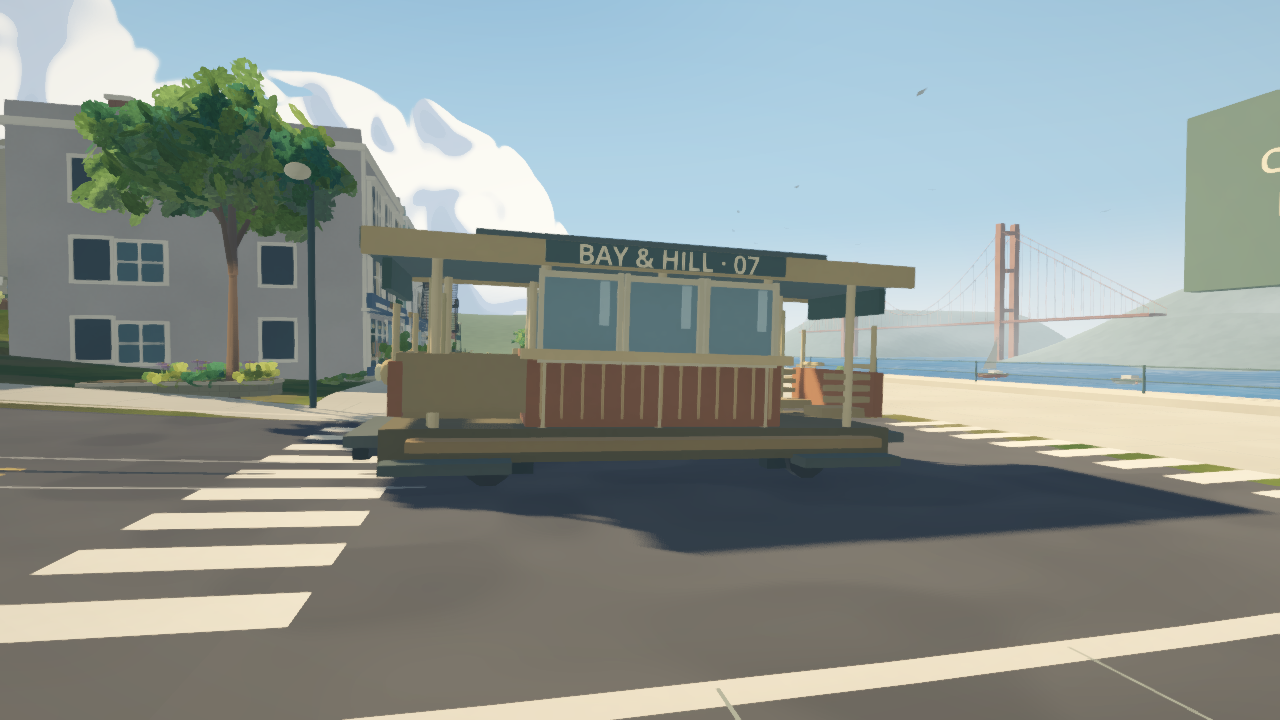
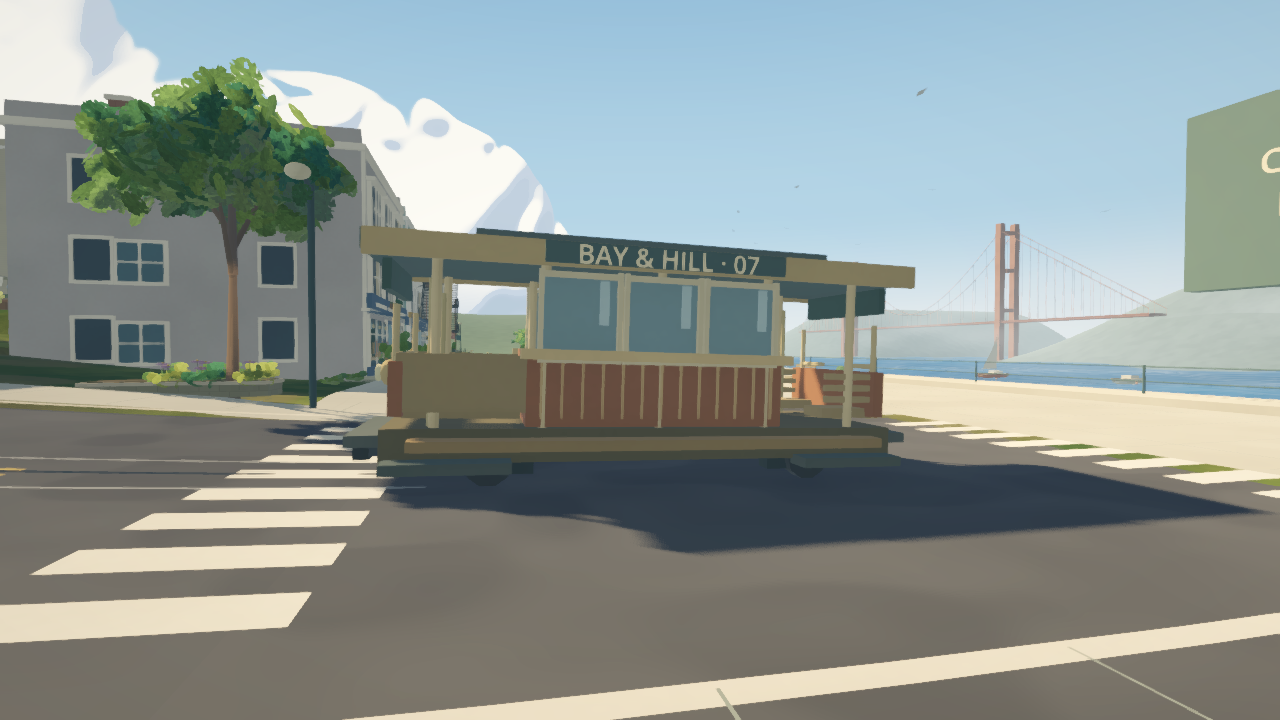
Align procedural sky and water with each map sun

diff --git a/games/cozysora/shared/CozyAtmosphere.cs b/games/cozysora/shared/CozyAtmosphere.cs
@@ -29,12 +29,18 @@ public partial class CozyAtmosphere : Resource
     [Export] public CozyWaterProfile? WaterProfile { get; set; }
     [Export] public float BrushRadius { get; set; } = 2;
 
+    // Directional lights emit along -Z; sky and water need the direction toward
+    // the sun. Read the installed light after its authored transform is applied.
+    internal static Vector3 DirectionToSun(Node3D parent) =>
+        parent.GetNode<DirectionalLight3D>("SummerSun").GlobalBasis.Z.Normalized();
+
     public void Install(Node3D parent)
     {
+        var skyMaterial = new ShaderMaterial { Shader = GD.Load<Shader>("res://shaders/sky.gdshader") };
         var env = new Environment
         {
             BackgroundMode = Environment.BGMode.Sky,
-            Sky = new Sky { SkyMaterial = new ShaderMaterial { Shader = GD.Load<Shader>("res://shaders/sky.gdshader") } },
+            Sky = new Sky { SkyMaterial = skyMaterial },
             AmbientLightSource = Environment.AmbientSource.Color,
             AmbientLightColor = AmbientColor,
             AmbientLightEnergy = AmbientEnergy,
@@ -71,6 +77,9 @@ public partial class CozyAtmosphere : Resource
         parent.AddChild(sun);
         if (AimSunAtOrigin) { sun.Position = SunPosition; sun.LookAt(Vector3.Zero); }
         else sun.RotationDegrees = SunRotationDegrees;
+        skyMaterial.SetShaderParameter("sun_direction", DirectionToSun(parent));
+        if (OS.GetCmdlineUserArgs().Contains("--profile"))
+            GD.Print("Cozy Sora SUN map=", parent.Name, " light_to_sun=", DirectionToSun(parent), " sky_to_sun=", skyMaterial.GetShaderParameter("sun_direction"));
         if (FillEnergy > 0)
         {
             var fill = new DirectionalLight3D { LightColor = FillColor, LightEnergy = FillEnergy };

diff --git a/games/cozysora/shared/water/CozyWaterSurface.cs b/games/cozysora/shared/water/CozyWaterSurface.cs
@@ -59,8 +59,9 @@ public partial class CozyWaterSurface : Node3D
         m.SetShaderParameter("shore_damping", profile.ShoreDampingDepth); m.SetShaderParameter("foam_strength", profile.FoamStrength);
         m.SetShaderParameter("wave_height_max", water._spectrum.MaximumHeight);
         m.SetShaderParameter("ocean_surface", ocean);
-        var sun = map.GetChildren().OfType<DirectionalLight3D>().FirstOrDefault(n => n.Name == "SummerSun");
-        m.SetShaderParameter("sun_direction", sun?.GlobalBasis.Z ?? new Vector3(-.55f, .7f, -.38f).Normalized());
+        m.SetShaderParameter("sun_direction", CozyAtmosphere.DirectionToSun(map));
+        if (OS.GetCmdlineUserArgs().Contains("--profile"))
+            GD.Print("Cozy Sora WATER_SUN map=", map.Name, " surface=", water.Name, " to_sun=", m.GetShaderParameter("sun_direction"));
         Mesh mesh;
         if (ocean)
         {

diff --git a/games/cozysora/VERIFICATION.md b/games/cozysora/VERIFICATION.md
@@ -202,3 +202,24 @@ Normal Daan play held a floating gull at XZ=(-20.622913,-13.604985), bobbing aro
 Evidence is under `/tmp/cozysora-harmony`: baseline copies, numbered refinement rounds, final native views, motion recordings and `native-play.log`. Reviewers independently inspected the signed distance transform, periodic noise, generated texture ownership, unchanged wave support and monotone fog tuning. Hardware controllers, genuine simultaneous multi-touch, non-Metal GPUs and exported builds remain outside this follow-up’s native scope.
 
 The final build completed with zero warnings/errors. All 14 final native captures exited successfully. A 75-second ordinary-gull descent crossed the 100–50 m altitude range and continued below it; independent review of spaced and adjacent samples found gradual haze changes without an opacity step. The final native UI cycle entered Harbor → Seabreeze → Daan, checked coastal floating/takeoff and paused cat recovery, and returned from each map with zero remaining sessions, players, cameras, audio players or orphan nodes. It exited with code 0 and no reported errors or leaks. Both independent reviewers accepted the final result within the documented native scope. The three destination previews were refreshed, imported successfully and checked in the native selector. Final-cycle, altitude and preview-import evidence is retained alongside the earlier captures.
+
+
+## Shared sun direction — 7 September 2026
+
+The sky’s formerly fixed Seabreeze sun direction is now supplied from each map’s installed `SummerSun`. The common helper reads normalized global +Z after the authored light transform and is used by both sky and water. The map’s directional light remains authoritative; sun transforms, colors, energy, cloud functions, water optics, layout and gameplay are unchanged. Each map retains a separate sky material, and directions are assigned during construction for the existing fixed-summer weather. No tests or external assets were added.
+
+The native `--profile` output reports the installed light direction and both material bindings. They agree to the displayed precision:
+
+| Map | Direction toward sun (world XYZ) |
+| --- | --- |
+| Seabreeze Village | (−0.568219, 0.723188, −0.392588) |
+| Harbor Hills | (−0.478459, 0.629320, 0.612399) |
+| Daan Gardens | (−0.391178, 0.731354, 0.558660) |
+
+Seabreeze’s ocean and both paddy surfaces receive its direction; Harbor’s ocean and Daan’s pond receive theirs. Matched normal and scenic captures cover coast, waterfront, flight, pond, deck and paddy views. Additional ordinary gull cameras face each map’s actual sun over water and upward into the sky. Baselines and final captures are under `/tmp/cozysora-sun`. Cloud animation can change phase between separate native runs; the shared cloud functions and thresholds were not edited.
+
+All 20 final native captures completed successfully: fourteen normal/scenic views and six matched sun-facing views. Independent visual review accepted the aligned sky sun and water highlights in Harbor and Daan, the retained Seabreeze alignment, and the preserved painterly clouds and water balance. Harbor and Daan destination previews were refreshed from these native captures, imported and viewed in the selector.
+
+The final native session entered Daan → Harbor → Seabreeze → Daan again. All four entries reported matching light, sky and water directions; Daan re-entry retained its original values after the coastal maps. Pond bobbing, takeoff, pause/resume and character switching were observed. Every return to selection reported zero remaining sessions, players, cameras, audio players and orphan nodes. The process exited with code 0 and no reported errors, exceptions or leak warnings. The independent runtime reviewer accepted the implementation and logs within this scope. The C# build completed with zero warnings/errors, and editor import exited successfully. Evidence includes `native-cycle.log`, `import.log`, the `final` capture directories and `daan-reentry.png`.
+
+Performance varied during concurrent rendering by other Godot applications: later Seabreeze play reported approximately 24–33 FPS and Daan re-entry approximately 36–40 FPS. This run does not establish a controlled performance comparison or a sustained-frame-rate guarantee. A stale native capture connection was refreshed before inspecting the final re-entry. GPU timing remained unavailable; physical input devices, genuine multitouch, exported builds and other GPUs were not revalidated.

diff --git a/games/cozysora/shared/water/README.md b/games/cozysora/shared/water/README.md
@@ -10,7 +10,7 @@ The deployed code has **24 geometric wave components**, despite comments referri
 
 The dense near grid spans 216 m with 192 divisions. Stitched square rings expand to radii 210, 520, 1150 and 2920 m with decreasing segment counts. Unequal rings share stitched edges, and matched quads alternate diagonals. Short geometric waves fade as the grid becomes coarser. Beyond the dense region, analytic fragment normals and crest shading prevent the broad aerial views from exposing interpolated triangles. The mesh follows the camera; phases remain in world space.
 
-The material translates six normal-only capillary/gravity octaves, wavelength/derivative filtering, air/water Fresnel (F0 0.02037), Beer–Lambert absorption, crest scattering, fine satin detail and a bounded, footprint-filtered GGX sunlight lobe. Small phase advection and normal-variance roughness keep the sheltered profiles from producing ruled ripple patterns or unresolved sparkling. Godot supplies the current map’s filtered sky radiance, actual lights and shadows. The material uses the map’s depth-fog color, range and curve through Godot’s final fog stage. The dielectric adapter uses `SPECULAR = sqrt(0.02037 / 0.16)` to match Forward+’s squared reflectance mapping. Daan retains its existing screen-space reflections.
+The material translates six normal-only capillary/gravity octaves, wavelength/derivative filtering, air/water Fresnel (F0 0.02037), Beer–Lambert absorption, crest scattering, fine satin detail and a bounded, footprint-filtered GGX sunlight lobe. Small phase advection and normal-variance roughness keep the sheltered profiles from producing ruled ripple patterns or unresolved sparkling. Godot supplies the current map’s filtered sky radiance, actual lights and shadows. Sky and water direction uniforms both come from `CozyAtmosphere.DirectionToSun`, which reads the installed map sun after its authored transform; there is no map-specific fallback direction. The material uses the map’s depth-fog color, range and curve through Godot’s final fog stage. The dielectric adapter uses `SPECULAR = sqrt(0.02037 / 0.16)` to match Forward+’s squared reflectance mapping. Daan retains its existing screen-space reflections.
 
 This is a water rendering and support component for Cozy Sora’s persistent summer settings. Sunwake’s 148-second storm/surge cycle, exceptional hero-wave packets, sailing hull/wake simulation, headlamp, celestial clock and story events are not part of these maps. Fixed map profiles intentionally preserve the existing weather and gameplay. The result is not claimed to reproduce the entire Sunwake simulation.
 

diff --git a/games/cozysora/shared/README.md b/games/cozysora/shared/README.md
@@ -22,6 +22,8 @@ Cache signatures include sorted paths and contents for generation sources (`cs`,
 
 ## Change map content
 
+Each map’s installed `SummerSun` is the source of truth for sun direction. `CozyAtmosphere.DirectionToSun` reads its normalized global +Z after the map’s authored transform; Godot emits directional light along −Z. The sky material and every water surface receive that same world-space direction when constructed. The sky’s sun glow, directional cloud shading and reflected sky therefore agree with the map’s direct lighting. Materials are created per map, and the optional fill light is not used as the sun. Directions are fixed for these summer maps; a future moving-sun feature would need to refresh both materials. See [Godot’s directional-light convention](https://docs.godotengine.org/en/latest/classes/class_directionallight3d.html).
+
 Summer lighting, two blended shadow cascades, restrained contact occlusion and the painterly post effect live in `CozyAtmosphere.cs` and the map profiles. Medium PCF filtering and FXAA keep broad pavement shadows smooth without temporal accumulation or contact-distance dithering. Keep the depth bias high enough to avoid self-shadow interference between thin paving and terrain; tune normal bias per map before changing material patterns. `surface_noise.gdshaderinc` supplies continuous, derivative-filtered variation and integrated paving joints, retaining detail near the camera without distant shimmer. Foliage normals use the normal matrix so stretched instances keep their intended crown lighting. `CozyCollision.Limb` aligns capsule support with tapered or bent wooden segments.
 
 Edit that map's generator or profile. The maps intentionally retain different terrain algorithms, plant shapes, grass topology, texture recipes and building styles. Harbor's shader-based building finishes and Seabreeze's image-based finishes are different artistic systems; forcing them into a shared material would change the result. Vehicles, buildings, parks, paddies, shrine, railway and route animation likewise remain local and use common construction mechanisms.

diff --git a/games/cozysora/README.md b/games/cozysora/README.md
@@ -65,7 +65,7 @@ The normal launch always opens destination selection. These explicit development
 
 `--pose=x,z,height_offset,yaw,pitch` stages a repeatable position through the normal character camera and ground-height contract. Angles are radians; `--gull` adds its usual 3 m takeoff clearance. This is useful for paired gameplay captures and focused native traversal without editing the registered spawn. For example, `--map=daan_gardens --shot --pose=-6,-44,.05,2.39,.09 --capture=/tmp/pond-cat.png --quit-after-capture` shows the pond from the cat camera.
 
-`--profile` reports lifecycle counts, player positions, wall-clock frame-time median/p95/max, physics time and viewport render CPU/GPU timing. Statistics reset on session transitions. GPU timing may be unavailable on the active driver (reported as zero); it does not mean zero GPU cost. Use normal play without capture options for performance observations, since image readback and PNG saving interrupt rendering. The global 60 FPS cap remains active for play and captures. Session diagnostics print the effective cap and VSync mode.
+`--profile` reports the installed light/sky/water sun directions, lifecycle counts, player positions, wall-clock frame-time median/p95/max, physics time and viewport render CPU/GPU timing. Statistics reset on session transitions. GPU timing may be unavailable on the active driver (reported as zero); it does not mean zero GPU cost. Use normal play without capture options for performance observations, since image readback and PNG saving interrupt rendering. The global 60 FPS cap remains active for play and captures. Session diagnostics print the effective cap and VSync mode.
 
 Verification uses runtime rendering, native interaction, and code review. No automated tests are included.
 
